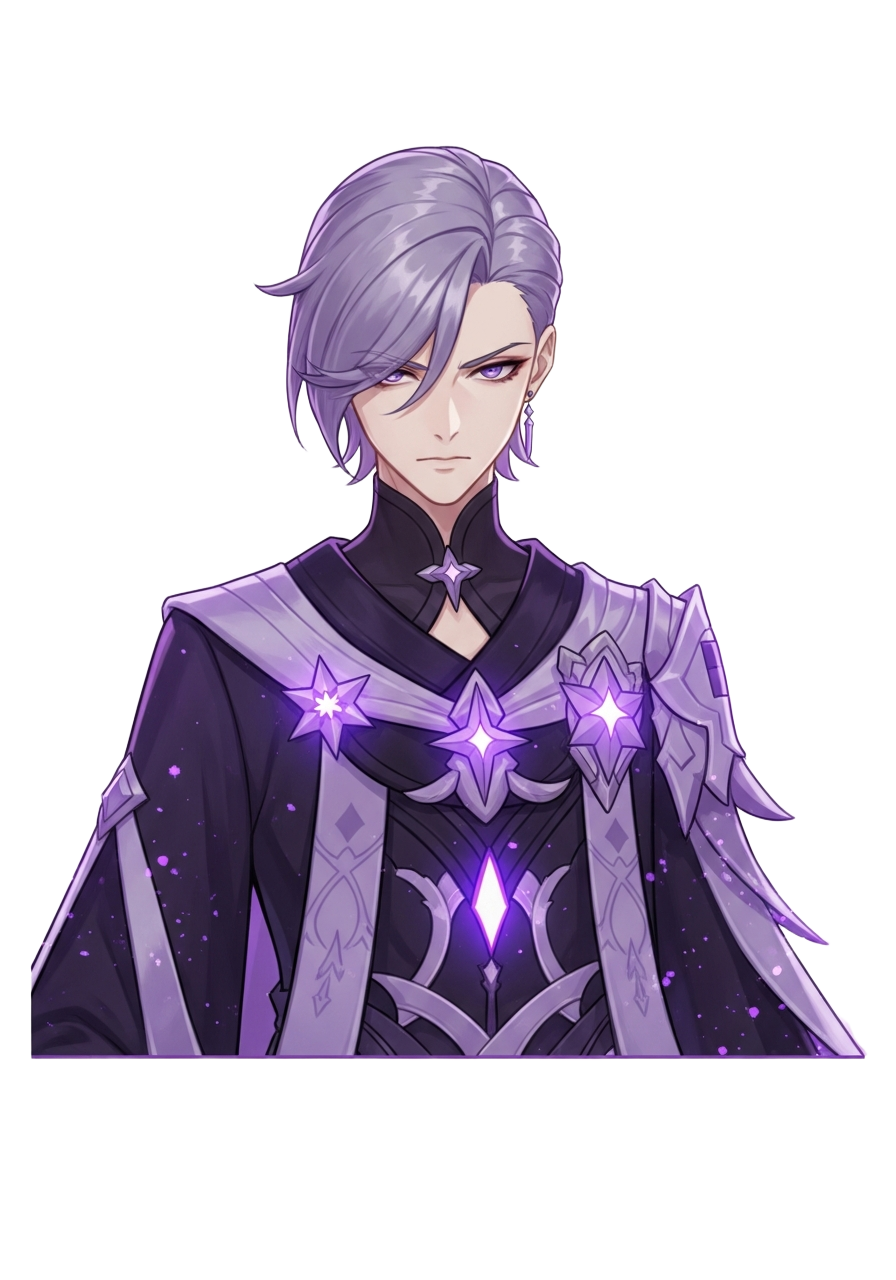
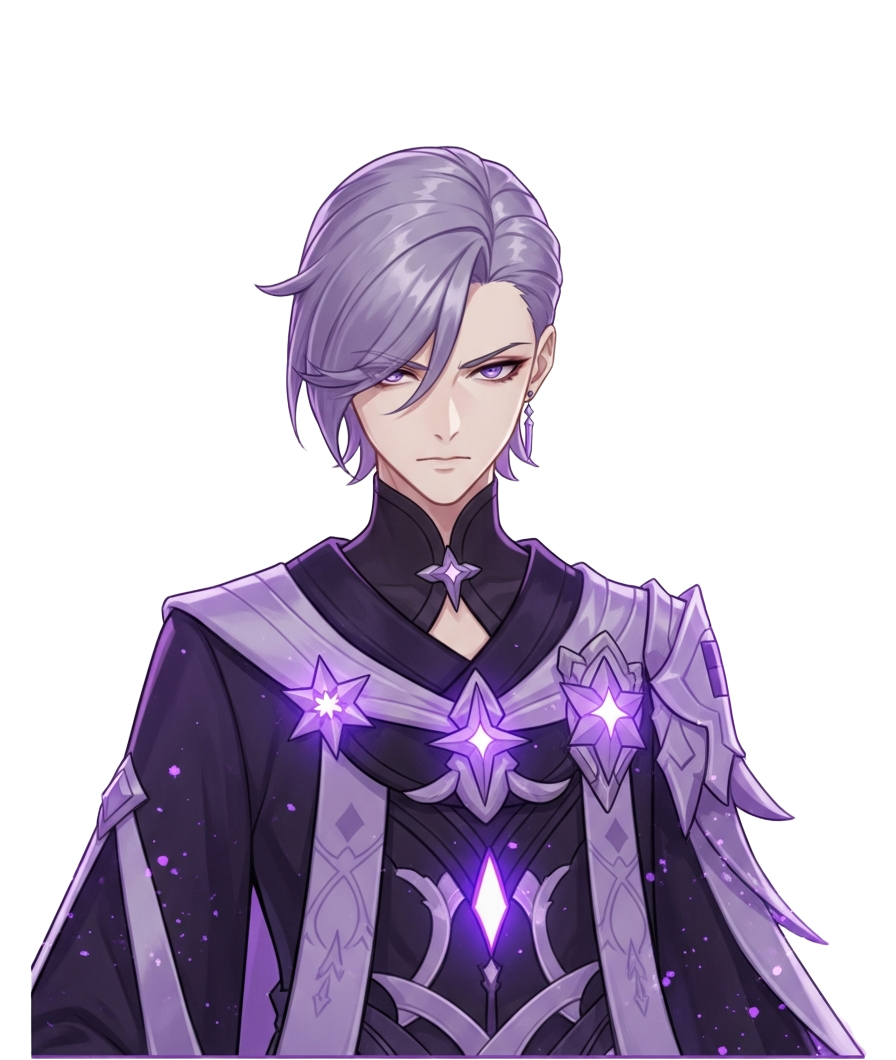
Update prologue scene assets and component logic.
Replit-Commit-Author: Agent

diff --git a/frontend/src/components/prologue/TacticalWarningScene.tsx b/frontend/src/components/prologue/TacticalWarningScene.tsx
@@ -51,8 +51,8 @@ type SpeakerId = "MASTER_BAI" | "NIGHTINGALE" | "FLEMING" | "PRODIGY";
 const SPEAKERS: Record<SpeakerId, { label: string; color: string; avatar: any; art: any; artFit: "contain" | "cover"; artHeight?: number }> = {
   MASTER_BAI:  { label: "Master Bai",           color: "#D9A441", avatar: ART.masterBai,   art: PROLOGUE_CHARACTERS.MASTER_BAI.largePortrait,  artFit: "contain", artHeight: Math.round(W * 0.68 * 1040 / 896) },
   NIGHTINGALE: { label: "Florence Nightingale",  color: "#E8C453", avatar: ART.nightingale, art: PROLOGUE_CHARACTERS.NIGHTINGALE.largePortrait, artFit: "cover"   },
-  FLEMING:     { label: "Sir Alexander Fleming", color: "#3ECFB2", avatar: ART.fleming,     art: PROLOGUE_CHARACTERS.FLEMING.largePortrait,     artFit: "contain", artHeight: Math.round(W * 0.68 * 1280 / 896) },
-  PRODIGY:     { label: "The Prodigy",           color: "#7EB8F7", avatar: ART.prodigy,     art: PROLOGUE_CHARACTERS.PRODIGY.largePortrait,     artFit: "contain", artHeight: Math.round(W * 0.68 * 1280 / 896) },
+  FLEMING:     { label: "Sir Alexander Fleming", color: "#3ECFB2", avatar: ART.fleming,     art: PROLOGUE_CHARACTERS.FLEMING.largePortrait,     artFit: "contain", artHeight: Math.round(W * 0.68 * 1203 / 896) },
+  PRODIGY:     { label: "The Prodigy",           color: "#7EB8F7", avatar: ART.prodigy,     art: PROLOGUE_CHARACTERS.PRODIGY.largePortrait,     artFit: "contain", artHeight: Math.round(W * 0.68 * 1060 / 896) },
 };
 
 const SPEAKER_ORDER: SpeakerId[] = ["MASTER_BAI", "NIGHTINGALE", "FLEMING", "PRODIGY"];

diff --git a/frontend/src/components/prologue/SilentInfarctionRevealScene.tsx b/frontend/src/components/prologue/SilentInfarctionRevealScene.tsx
@@ -79,10 +79,10 @@ const SI_SPEAKER = {
 
 // ── Portrait fit/position per speaker (Nightingale is square → cover) ────────
 const SPEAKERS: Record<PrologueSpeakerId, { artFit: "contain" | "cover"; artPos: "bottom" | "top"; artHeight?: number }> = {
-  PRODIGY:     { artFit: "contain", artPos: "bottom", artHeight: Math.round(W * 0.74 * 1280 / 896) },
+  PRODIGY:     { artFit: "contain", artPos: "bottom", artHeight: Math.round(W * 0.74 * 1060 / 896) },
   MASTER_BAI:  { artFit: "contain", artPos: "bottom", artHeight: Math.round(W * 0.74 * 1040 / 896) },
   NIGHTINGALE: { artFit: "cover",   artPos: "bottom" },
-  FLEMING:     { artFit: "contain", artPos: "bottom", artHeight: Math.round(W * 0.74 * 1280 / 896) },
+  FLEMING:     { artFit: "contain", artPos: "bottom", artHeight: Math.round(W * 0.74 * 1203 / 896) },
 };
 
 interface Props { onComplete: () => void }

diff --git a/frontend/src/components/prologue/FormerSelfIntroScene.tsx b/frontend/src/components/prologue/FormerSelfIntroScene.tsx
@@ -59,7 +59,7 @@ const SPEAKERS: Record<
     avatar:    PROLOGUE_CHARACTERS.PRODIGY.avatar48,
     artFit:    "contain",
     artPos:    "bottom",
-    artHeight: Math.round(W * 0.74 * 1280 / 896),
+    artHeight: Math.round(W * 0.74 * 1060 / 896),
   },
   MASTER_BAI: {
     label:     PROLOGUE_CHARACTERS.MASTER_BAI.name,
@@ -88,7 +88,7 @@ const SPEAKERS: Record<
     avatar:    PROLOGUE_CHARACTERS.FLEMING.avatar48,
     artFit:    "contain",
     artPos:    "bottom",
-    artHeight: Math.round(W * 0.74 * 1280 / 896),
+    artHeight: Math.round(W * 0.74 * 1203 / 896),
   },
 };
 

diff --git a/frontend/src/components/prologue/FormerSelfVictoryCutscene.tsx b/frontend/src/components/prologue/FormerSelfVictoryCutscene.tsx
@@ -52,7 +52,7 @@ const SPEAKERS: Record<
     avatar:    PROLOGUE_CHARACTERS.PRODIGY.avatar48,
     artFit:    "contain",
     artPos:    "bottom",
-    artHeight: Math.round(W * 0.74 * 1280 / 896),
+    artHeight: Math.round(W * 0.74 * 1060 / 896),
   },
   MASTER_BAI: {
     label:     PROLOGUE_CHARACTERS.MASTER_BAI.name,
@@ -81,7 +81,7 @@ const SPEAKERS: Record<
     avatar:    PROLOGUE_CHARACTERS.FLEMING.avatar48,
     artFit:    "contain",
     artPos:    "bottom",
-    artHeight: Math.round(W * 0.74 * 1280 / 896),
+    artHeight: Math.round(W * 0.74 * 1203 / 896),
   },
 };
 

diff --git a/frontend/src/components/prologue/WarningDialogueScene.tsx b/frontend/src/components/prologue/WarningDialogueScene.tsx
@@ -57,7 +57,7 @@ const SPEAKERS: Record<
     avatar:    PROLOGUE_CHARACTERS.PRODIGY.avatar48,
     artFit:    "contain",
     artPos:    "bottom",
-    artHeight: Math.round(W * 0.74 * 1280 / 896),
+    artHeight: Math.round(W * 0.74 * 1060 / 896),
   },
   MASTER_BAI: {
     label:     PROLOGUE_CHARACTERS.MASTER_BAI.name,
@@ -86,7 +86,7 @@ const SPEAKERS: Record<
     avatar:    PROLOGUE_CHARACTERS.FLEMING.avatar48,
     artFit:    "contain",
     artPos:    "bottom",
-    artHeight: Math.round(W * 0.74 * 1280 / 896),
+    artHeight: Math.round(W * 0.74 * 1203 / 896),
   },
 };
 
